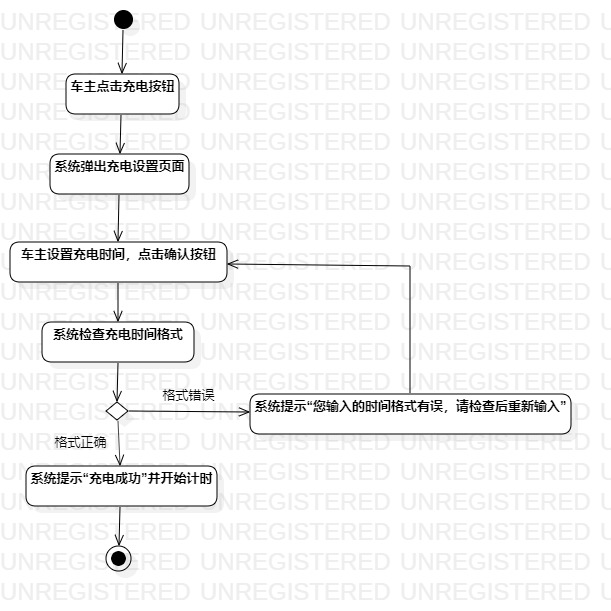
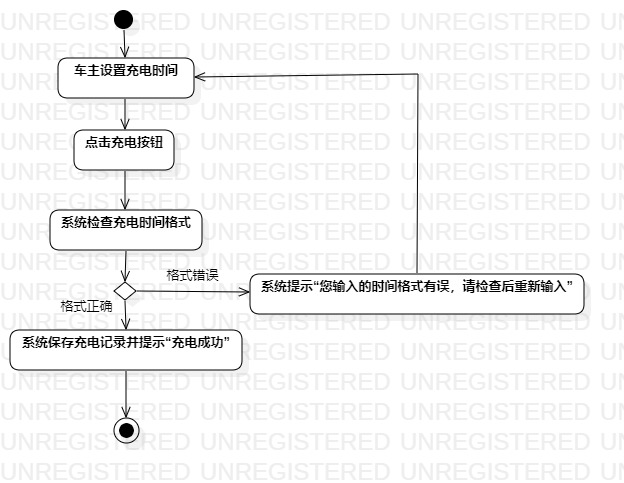
实验6及之前实验的修改

Changed region(s): [[0.0, 0.0, 0.964, 0.9317], [0.9329, 0.5901, 0.964, 0.6211], [0.6219, 0.1242, 0.653, 0.1553]]

diff --git a/students/1712070504232/lab2.md b/students/1712070504232/lab2.md
@@ -33,36 +33,32 @@
 用例编号  | UC01 | 备注  
 -|:-|-  
 用例名称  | 充电 |   
-前置条件  | 充电枪插入电动车充电连接口     | 
+前置条件  | 车主将充电枪插入电动车充电连接口并打开充电设置界面     | 
 后置条件  |      | *可选*   
-基本流程  | 1. 车主点击充电按钮  |*用例执行成功的步骤*    
-~| 2. 系统弹出充电设置页面  |   
-~| 3. 车主设置好充电时间，点击确认按钮  |   
-~| 4. 系统检查充电时间格式正确，提示“充电成功”并开始计时 |   
-扩展流程  | 4.1 系统检查充电时间格式错误，提示“您输入的时间格式有误，请检查后重新输入”  |*用例执行失败*   
+基本流程  | 1. 车主设置充电时间  |*用例执行成功的步骤*    
+~| 2. 点击充电按钮 |   
+~| 3. 系统检查充电时间格式正确，保存充电记录，提示“充电成功”  |     
+扩展流程  | 3.1 系统检查充电时间格式错误，提示“您输入的时间格式有误，请检查后重新输入”  |*用例执行失败*   
 
 ## 表2：缴费用例规约  
 
 用例编号  | UC02 | 备注  
 -|:-|-  
 用例名称  | 缴费  |   
-前置条件  | 车辆正在充电或充电已经完成    |   
+前置条件  | 车主已结束充电并打开缴费界面    |   
 后置条件  | 车主将充电枪放回原位并将车开走    | 
-基本流程  | 1. 车主点击结束充电按钮  |*用例执行成功的步骤*    
-~| 2. 系统根据充电时间计算出充电费用，显示缴费界面  |   
-~| 3. 车主点击缴费按钮  |   
-~| 4. 系统检查车主账户余额充足，扣除本次充电的费用，提示“支付完成，祝您一路顺风”  |   
-扩展流程  | 4.1 系统检查车主账户余额不足，提示“支付失败，请重新支付” |*用例执行失败* 
+基本流程  | 1. 车主点击缴费按钮  |*用例执行成功的步骤*    
+~| 2. 系统检查车主账户余额大于充电费用，扣除充电费用并保存缴费记录，提示“支付完成，祝您一路顺风”  |   
+扩展流程  | 2.1 系统检查车主账户余额不大于充电费用，提示“支付失败，请重新支付” |*用例执行失败* 
 
 ## 表3：充值用例规约  
 
 用例编号  | UC03 | 备注  
 -|:-|-  
 用例名称  | 充值  |   
-前置条件  | 车主账户余额不足    |   
+前置条件  | 车主打开充值界面    |   
 后置条件  |     | 
-基本流程  | 1. 车主点击充值按钮  |*用例执行成功的步骤*    
-~| 2. 系统显示充值界面  |   
-~| 3. 车主输入充值金额，点击确认充值按钮  |   
-~| 4. 系统检查充值金额不为空，增加账户余额，提示“充值成功”  |   
-扩展流程  | 4.1 系统检查充值金额为空，提示“充值失败，请输入充值金额再充值” |*用例执行失败*
+基本流程  | 1. 车主输入充值金额  |*用例执行成功的步骤*    
+~| 2. 点击充值按钮  |   
+~| 3. 系统检查充值金额不为空，增加账户余额并保存充值记录，提示“充值成功”  |   
+扩展流程  | 3.1 系统检查充值金额为空，提示“充值失败，请输入充值金额再充值” |*用例执行失败*

diff --git a/students/1712070504232/lab6.md b/students/1712070504232/lab6.md
@@ -1,0 +1,34 @@
+# 实验六
+
+## 一、实验目标
+
+1. 理解系统交互；
+2. 掌握UML顺序图的画法；
+3. 掌握对象交互的定义与建模方法。
+
+## 二、实验内容
+
+1. 根据用例模型和类模型，确定功能所涉及的系统对象；
+2. 在顺序图上画出参与者（对象）；
+3. 在顺序图上画出消息（交互）。
+
+## 三、实验步骤
+
+1. 在B站学习顺序图的概念和画法
+2. 参考之前的实验中的用例规约、用例图以及类图，对不合理处进行修改
+3. 画“充电”顺序图
+4. 画“缴费”顺序图
+4. 画“充值”顺序图
+
+## 四、实验结果
+
+![充电的顺序图](./lab6_interaction1.png)
+
+图1.充电的顺序图
+
+![缴费的顺序图](./lab6_interaction2.png)
+
+图2.缴费的顺序图
+
+![充值的顺序图](./lab6_interaction3.png)
+图2.充值的顺序图
